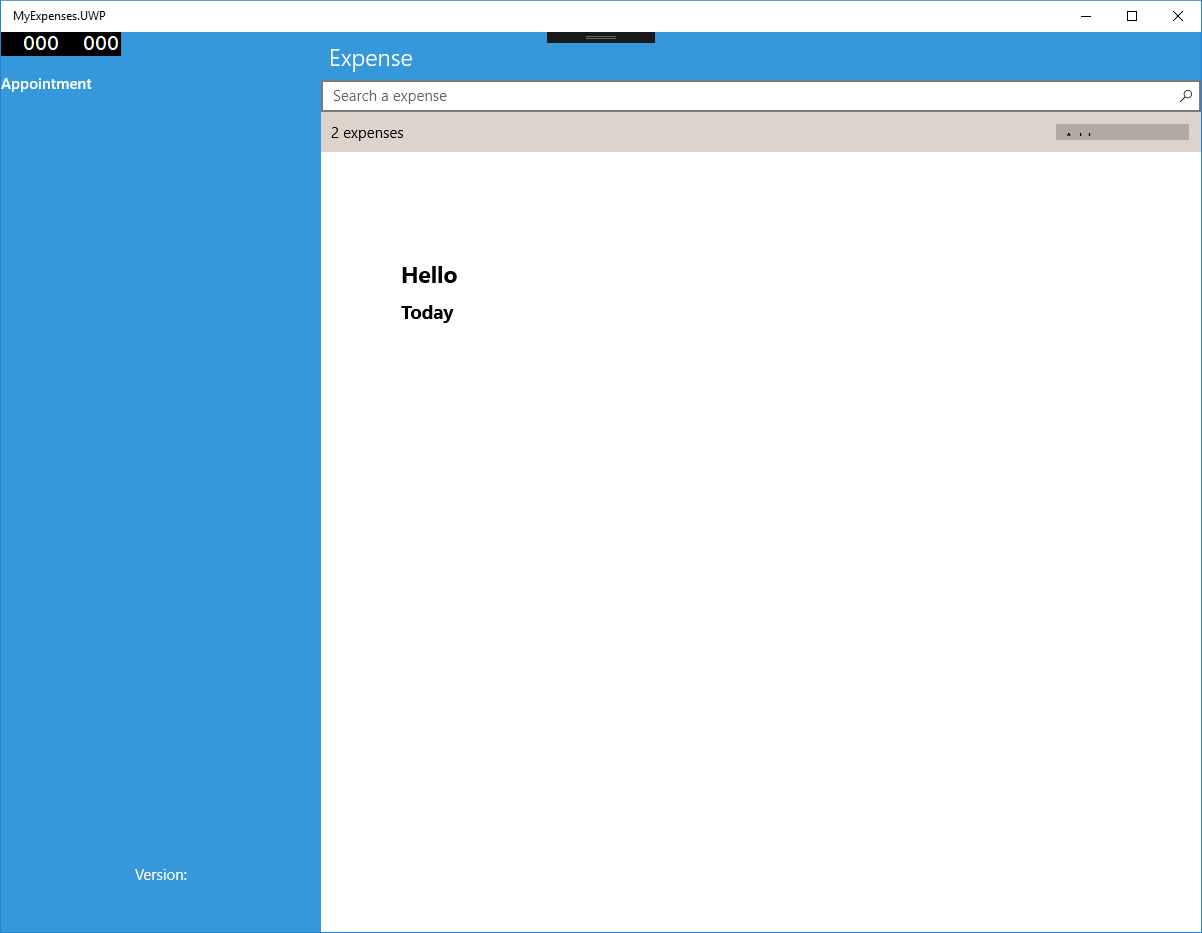
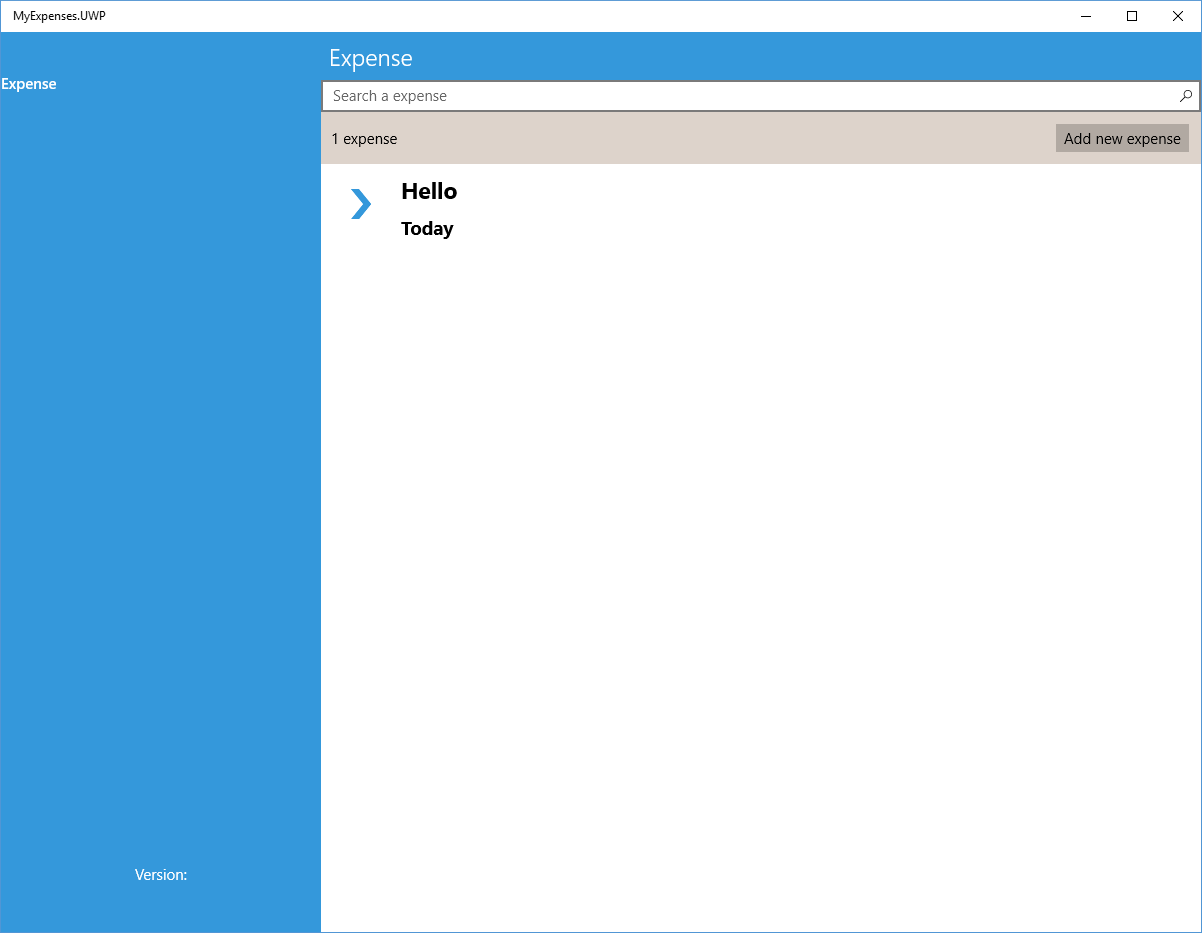
Update edit view

diff --git a/MyExpenses/MyExpenses/MyExpenses/Views/ExpenseItem.xaml b/MyExpenses/MyExpenses/MyExpenses/Views/ExpenseItem.xaml
@@ -6,80 +6,87 @@
              xmlns:enums="clr-namespace:MyExpenses.Enums;assembly=MyExpenses.Enums"
              xmlns:psce="clr-namespace:PSC.Xamarin.Controls.EnumBindablePicker;assembly=PSC.Xamarin.Controls.EnumBindablePicker"
              x:Class="MyExpenses.Views.ExpenseItem" x:Name="ExpenseItemPage" Title="Expense">
-  <ContentPage.ToolbarItems>
-    <ToolbarItem Command="{Binding SaveExpenseItem}" Order="Primary" Priority="0" Text="Save">
-    </ToolbarItem>
-  </ContentPage.ToolbarItems>
+    <ContentPage.ToolbarItems>
+        <ToolbarItem Command="{Binding SaveExpenseItem}" Order="Primary" Priority="0" Text="Save">
+            <ToolbarItem.Icon>
+                <OnPlatform x:TypeArguments="FileImageSource" Android="Save.png" WinPhone="Save.png" />
+            </ToolbarItem.Icon>
+        </ToolbarItem>
+    </ContentPage.ToolbarItems>
+    
+    <ContentPage.Padding>
+        <OnPlatform x:TypeArguments="Thickness" iOS="0,20,0,0" WinPhone="10"/>
+    </ContentPage.Padding>
 
-  <ContentPage.Content>
-    <ScrollView>
-      <ContentView x:Name="cvLoading" AbsoluteLayout.LayoutBounds="0, 0, 1, 1" AbsoluteLayout.LayoutFlags="All" IsVisible="{Binding IsBusy, Mode=OneWay}" BackgroundColor="White" Padding="10, 0">
-        <ActivityIndicator WidthRequest="110" HeightRequest="70" IsRunning="True" IsVisible="True" Color="Black" HorizontalOptions="CenterAndExpand" VerticalOptions="CenterAndExpand" />
-      </ContentView>
+    <ContentPage.Content>
+        <ScrollView>
+            <ContentView x:Name="cvLoading" AbsoluteLayout.LayoutBounds="0, 0, 1, 1" AbsoluteLayout.LayoutFlags="All" IsVisible="{Binding IsBusy, Mode=OneWay}" BackgroundColor="White" Padding="10, 0">
+                <ActivityIndicator WidthRequest="110" HeightRequest="70" IsRunning="True" IsVisible="True" Color="Black" HorizontalOptions="CenterAndExpand" VerticalOptions="CenterAndExpand" />
+            </ContentView>
 
-      <StackLayout HorizontalOptions="FillAndExpand" VerticalOptions="FillAndExpand" Orientation="Vertical">
-        <StackLayout.Padding>
-          <OnIdiom x:TypeArguments="Thickness">
-            <OnIdiom.Phone>10,10,10,10</OnIdiom.Phone>
-            <OnIdiom.Tablet>20,20,20,10</OnIdiom.Tablet>
-          </OnIdiom>
-        </StackLayout.Padding>
+            <StackLayout HorizontalOptions="FillAndExpand" VerticalOptions="FillAndExpand" Orientation="Vertical">
+                <StackLayout.Padding>
+                    <OnIdiom x:TypeArguments="Thickness">
+                        <OnIdiom.Phone>10,10,10,10</OnIdiom.Phone>
+                        <OnIdiom.Tablet>20,20,20,10</OnIdiom.Tablet>
+                    </OnIdiom>
+                </StackLayout.Padding>
 
-        <StackLayout IsVisible="{Binding ShowErrors}" HorizontalOptions="FillAndExpand">
-            <Frame HasShadow ="false" OutlineColor="#E14063" Margin="0, 10">
-                <Label Text ="{Binding ErrorDescription}" TextColor="#E14063" HorizontalOptions="FillAndExpand" VerticalTextAlignment="Center" />
-            </Frame>
-        </StackLayout>
+                <StackLayout IsVisible="{Binding ShowErrors}" HorizontalOptions="FillAndExpand">
+                    <Frame HasShadow ="false" OutlineColor="#E14063" Margin="0, 10">
+                        <Label Text ="{Binding ErrorDescription}" TextColor="#E14063" HorizontalOptions="FillAndExpand" VerticalTextAlignment="Center" />
+                    </Frame>
+                </StackLayout>
 
-        <StackLayout Orientation="Horizontal">
-          <Label Text="Expense date" />
-        </StackLayout>
-        <Entry Text="{Binding ExpenseDate}" HorizontalOptions="FillAndExpand" />
+                <StackLayout Orientation="Horizontal">
+                    <Label Text="Expense date" />
+                </StackLayout>
+                <Entry Text="{Binding ExpenseDate}" HorizontalOptions="FillAndExpand" />
 
-        <StackLayout Orientation="Horizontal">
-          <Label Text="Description" />
-        </StackLayout>
-        <Entry Text="{Binding Description}" HorizontalOptions="FillAndExpand" />
+                <StackLayout Orientation="Horizontal">
+                    <Label Text="Description" />
+                </StackLayout>
+                <Entry Text="{Binding Description}" HorizontalOptions="FillAndExpand" />
 
-        <StackLayout Orientation="Horizontal">
-          <Label Text="Expense value" />
-        </StackLayout>
-        <Entry Text="{Binding Cost}" HorizontalOptions="FillAndExpand" />
+                <StackLayout Orientation="Horizontal">
+                    <Label Text="Expense value" />
+                </StackLayout>
+                <Entry Text="{Binding Cost}" HorizontalOptions="FillAndExpand" />
 
-        <StackLayout Orientation="Horizontal">
-          <Label Text="Category" />
-        </StackLayout>
-        <psce:EnumBindablePicker x:TypeArguments="enums:CategoryType" SelectedItem="{Binding Category}" />
+                <StackLayout Orientation="Horizontal">
+                    <Label Text="Category" />
+                </StackLayout>
+                <psce:EnumBindablePicker x:TypeArguments="enums:CategoryType" SelectedItem="{Binding Category}" />
 
-        <Grid HorizontalOptions="Fill">
-          <Grid.RowDefinitions>
-            <RowDefinition Height="*" />
-          </Grid.RowDefinitions>
-          <Grid.ColumnDefinitions>
-            <ColumnDefinition Width="*" />
-            <ColumnDefinition Width="Auto" />
-          </Grid.ColumnDefinitions>
-          <Label Text="Is recurrence?" Grid.Column="0" Grid.Row="0" />
-          <Switch IsToggled="{Binding IsRecurrence}" Grid.Column="1" Grid.Row="0" />
-        </Grid>
+                <Grid HorizontalOptions="Fill">
+                    <Grid.RowDefinitions>
+                        <RowDefinition Height="*" />
+                    </Grid.RowDefinitions>
+                    <Grid.ColumnDefinitions>
+                        <ColumnDefinition Width="*" />
+                        <ColumnDefinition Width="Auto" />
+                    </Grid.ColumnDefinitions>
+                    <Label Text="Is recurrence?" Grid.Column="0" Grid.Row="0" />
+                    <Switch IsToggled="{Binding IsRecurrence}" Grid.Column="1" Grid.Row="0" />
+                </Grid>
 
-        <StackLayout Orientation="Horizontal">
-          <Label Text="Recurrence pattern" />
-        </StackLayout>
-        <psce:EnumBindablePicker x:TypeArguments="enums:RecurrenceTimeType" SelectedItem="{Binding RecurrenceTime}" />
+                <StackLayout Orientation="Horizontal">
+                    <Label Text="Recurrence pattern" />
+                </StackLayout>
+                <psce:EnumBindablePicker x:TypeArguments="enums:RecurrenceTimeType" SelectedItem="{Binding RecurrenceTime}" />
 
-        <Grid HorizontalOptions="Fill">
-          <Grid.RowDefinitions>
-            <RowDefinition Height="*" />
-          </Grid.RowDefinitions>
-          <Grid.ColumnDefinitions>
-            <ColumnDefinition Width="*" />
-            <ColumnDefinition Width="Auto" />
-          </Grid.ColumnDefinitions>
-          <Label Text="Is an income?" Grid.Column="0" Grid.Row="0" />
-          <Switch IsToggled="{Binding IsIncome}" Grid.Column="1" Grid.Row="0" />
-        </Grid>
-      </StackLayout>
-    </ScrollView>
-  </ContentPage.Content>
+                <Grid HorizontalOptions="Fill">
+                    <Grid.RowDefinitions>
+                        <RowDefinition Height="*" />
+                    </Grid.RowDefinitions>
+                    <Grid.ColumnDefinitions>
+                        <ColumnDefinition Width="*" />
+                        <ColumnDefinition Width="Auto" />
+                    </Grid.ColumnDefinitions>
+                    <Label Text="Is an income?" Grid.Column="0" Grid.Row="0" />
+                    <Switch IsToggled="{Binding IsIncome}" Grid.Column="1" Grid.Row="0" />
+                </Grid>
+            </StackLayout>
+        </ScrollView>
+    </ContentPage.Content>
 </ContentPage>

diff --git a/MyExpenses/MyExpenses/MyExpenses/Views/ExpenseList.xaml b/MyExpenses/MyExpenses/MyExpenses/Views/ExpenseList.xaml
@@ -3,56 +3,56 @@
              xmlns:x="http://schemas.microsoft.com/winfx/2009/xaml"
              xmlns:controls="clr-namespace:ImageCircle.Forms.Plugin.Abstractions;assembly=ImageCircle.Forms.Plugin.Abstractions"
              x:Class="MyExpenses.Views.ExpenseList" Title="Expense" x:Name="ExpensePage">
-  <ContentPage.Content>
-    <StackLayout Spacing="0">
-      <ContentView x:Name="cvLoading" AbsoluteLayout.LayoutBounds="0, 0, 1, 1" AbsoluteLayout.LayoutFlags="All" IsVisible="{Binding IsBusy, Mode=OneWay}" BackgroundColor="White" Padding="10, 0">
-        <ActivityIndicator WidthRequest="110" HeightRequest="70" IsRunning="True" IsVisible="True" Color="Black" HorizontalOptions="CenterAndExpand" VerticalOptions="CenterAndExpand" />
-      </ContentView>
-      <SearchBar x:Name="searchBar" Placeholder="Search a expense" TextChanged="OnTextChanged" />
-      <StackLayout BackgroundColor="#DDD3CB" HorizontalOptions="FillAndExpand" VerticalOptions="StartAndExpand" Spacing="0">
-        <Grid HorizontalOptions="FillAndExpand" VerticalOptions="StartAndExpand" Padding="10">
-          <Grid.RowDefinitions>
-            <RowDefinition Height="*" />
-          </Grid.RowDefinitions>
-          <Grid.ColumnDefinitions>
-            <ColumnDefinition Width="*" />
-            <ColumnDefinition Width="Auto" />
-          </Grid.ColumnDefinitions>
-          <Label Grid.Row="0" Grid.Column="0" Text="{Binding ItemNumberText}" TextColor="Black" VerticalOptions="FillAndExpand" VerticalTextAlignment="Center" />
-          <Button Grid.Row="0" Grid.Column="1" Text="Add new expense" TextColor="Black" Clicked="OnClickedNew" VerticalOptions="FillAndExpand" />
-        </Grid>
-      </StackLayout>
-      <StackLayout x:Name="stackEmpty" HorizontalOptions="FillAndExpand" VerticalOptions="FillAndExpand" IsVisible="{Binding ShowEmpty}" Spacing="0">
-        <Label x:Name="labelEmpty" Text="No expense found in database." HorizontalTextAlignment="Center" />
-      </StackLayout>
-      <ListView x:Name="listExpense" ItemsSource="{Binding ExpensesList}" ItemTapped="Handle_ItemTapped" ItemSelected="Handle_ItemSelected"
+    <ContentPage.Content>
+        <StackLayout Spacing="0">
+            <ContentView x:Name="cvLoading" AbsoluteLayout.LayoutBounds="0, 0, 1, 1" AbsoluteLayout.LayoutFlags="All" IsVisible="{Binding IsBusy, Mode=OneWay}" BackgroundColor="White" Padding="10, 0">
+                <ActivityIndicator WidthRequest="110" HeightRequest="70" IsRunning="True" IsVisible="True" Color="Black" HorizontalOptions="CenterAndExpand" VerticalOptions="CenterAndExpand" />
+            </ContentView>
+            <SearchBar x:Name="searchBar" Placeholder="Search a expense" TextChanged="OnTextChanged" />
+            <StackLayout BackgroundColor="#DDD3CB" HorizontalOptions="FillAndExpand" VerticalOptions="StartAndExpand" Spacing="0">
+                <Grid HorizontalOptions="FillAndExpand" VerticalOptions="StartAndExpand" Padding="10">
+                    <Grid.RowDefinitions>
+                        <RowDefinition Height="Auto" />
+                    </Grid.RowDefinitions>
+                    <Grid.ColumnDefinitions>
+                        <ColumnDefinition Width="*" />
+                        <ColumnDefinition Width="Auto" />
+                    </Grid.ColumnDefinitions>
+                    <Label Grid.Row="0" Grid.Column="0" Text="{Binding ItemNumberText}" TextColor="Black" VerticalOptions="FillAndExpand" VerticalTextAlignment="Center" />
+                    <Button Grid.Row="0" Grid.Column="1" Text="Add new expense" TextColor="Black" Clicked="OnClickedNew" VerticalOptions="FillAndExpand" />
+                </Grid>
+            </StackLayout>
+            <StackLayout x:Name="stackEmpty" HorizontalOptions="FillAndExpand" VerticalOptions="FillAndExpand" IsVisible="{Binding ShowEmpty}" Spacing="0">
+                <Label x:Name="labelEmpty" Text="No expense found in database." HorizontalTextAlignment="Center" />
+            </StackLayout>
+            <ListView x:Name="listExpense" ItemsSource="{Binding ExpensesList}" ItemTapped="Handle_ItemTapped" ItemSelected="Handle_ItemSelected"
                 HasUnevenRows="true" IsVisible="{Binding ShowListView}" IsPullToRefreshEnabled="true" HorizontalOptions="FillAndExpand" VerticalOptions="FillAndExpand"
                 RefreshCommand="{Binding LoadCommand}" IsRefreshing="{Binding IsBusy, Mode=OneWay}">
-        <ListView.ItemTemplate>
-          <DataTemplate>
-            <ViewCell>
-              <Grid Padding="10" RowSpacing="10" ColumnSpacing="10">
-                <Grid.RowDefinitions>
-                  <RowDefinition Height="Auto" />
-                  <RowDefinition Height="Auto" />
-                  <RowDefinition Height="*" />
-                </Grid.RowDefinitions>
-                <Grid.ColumnDefinitions>
-                  <ColumnDefinition Width="Auto" />
-                  <ColumnDefinition Width="*" />
-                </Grid.ColumnDefinitions>
-                <controls:CircleImage Grid.Row="0" Grid.Column="0" BorderColor="{Binding CircleColor}" BorderThickness="3" HeightRequest="60" HorizontalOptions="CenterAndExpand" VerticalOptions="StartAndExpand" Aspect="AspectFill" WidthRequest="60" Grid.RowSpan="3" Source="{Binding ImagePath}" />
-                <Label Grid.Row="0" Grid.Column="1" Text="{Binding Description}" VerticalOptions="End" FontSize="Medium" FontAttributes="Bold" />
-                <Label Grid.Row="1" Grid.Column="1" Text="{Binding ExpenseDate}" VerticalOptions="End" FontSize="Small" FontAttributes="Bold" />
-              </Grid>
-              <ViewCell.ContextActions>
-                <MenuItem Clicked="OnEdit" Text="Edit" CommandParameter="{Binding Id}" />
-                <MenuItem Clicked="OnDelete" Text="Delete" IsDestructive="True" CommandParameter="{Binding Id}" />
-              </ViewCell.ContextActions>
-            </ViewCell>
-          </DataTemplate>
-        </ListView.ItemTemplate>
-      </ListView>
-    </StackLayout>
-  </ContentPage.Content>
+                <ListView.ItemTemplate>
+                    <DataTemplate>
+                        <ViewCell>
+                            <Grid Padding="10" RowSpacing="10" ColumnSpacing="10">
+                                <Grid.RowDefinitions>
+                                    <RowDefinition Height="Auto" />
+                                    <RowDefinition Height="Auto" />
+                                    <RowDefinition Height="*" />
+                                </Grid.RowDefinitions>
+                                <Grid.ColumnDefinitions>
+                                    <ColumnDefinition Width="Auto" />
+                                    <ColumnDefinition Width="*" />
+                                </Grid.ColumnDefinitions>
+                                <controls:CircleImage Grid.Row="0" Grid.Column="0" BorderColor="{Binding CircleColor}" BorderThickness="3" HeightRequest="60" HorizontalOptions="CenterAndExpand" VerticalOptions="StartAndExpand" Aspect="AspectFill" WidthRequest="60" Grid.RowSpan="3" Source="{Binding ImagePath}" />
+                                <Label Grid.Row="0" Grid.Column="1" Text="{Binding Description}" VerticalOptions="End" FontSize="Medium" FontAttributes="Bold" />
+                                <Label Grid.Row="1" Grid.Column="1" Text="{Binding ExpenseDate}" VerticalOptions="End" FontSize="Small" FontAttributes="Bold" />
+                            </Grid>
+                            <ViewCell.ContextActions>
+                                <MenuItem Clicked="OnEdit" Text="Edit" CommandParameter="{Binding Id}" />
+                                <MenuItem Clicked="OnDelete" Text="Delete" IsDestructive="True" CommandParameter="{Binding Id}" />
+                            </ViewCell.ContextActions>
+                        </ViewCell>
+                    </DataTemplate>
+                </ListView.ItemTemplate>
+            </ListView>
+        </StackLayout>
+    </ContentPage.Content>
 </ContentPage>

diff --git a/MyExpenses/MyExpenses/MyExpenses.Android/Resources/Resource.Designer.cs b/MyExpenses/MyExpenses/MyExpenses.Android/Resources/Resource.Designer.cs
@@ -2205,8 +2205,11 @@ namespace MyExpenses.Droid
 			// aapt resource value: 0x7f0200a1
 			public const int mr_ic_play_light = 2130837665;
 			
+			// aapt resource value: 0x7f0200a3
+			public const int notification_template_icon_bg = 2130837667;
+			
 			// aapt resource value: 0x7f0200a2
-			public const int notification_template_icon_bg = 2130837666;
+			public const int Save = 2130837666;
 			
 			static Drawable()
 			{

diff --git a/MyExpenses/MyExpenses/MyExpenses/ViewModels/Menu/MenuListData.cs b/MyExpenses/MyExpenses/MyExpenses/ViewModels/Menu/MenuListData.cs
@@ -10,8 +10,8 @@ namespace MyExpenses.ViewModels
 		{
 			this.Add(new MenuItems()
 			{
-				Title = "Appointment",
-				IconSource = "Home.png",
+				Title = "Expense",
+				IconSource = "GeneralIcon.png",
 				TargetType = typeof(ExpenseList)
 			});
 		}
